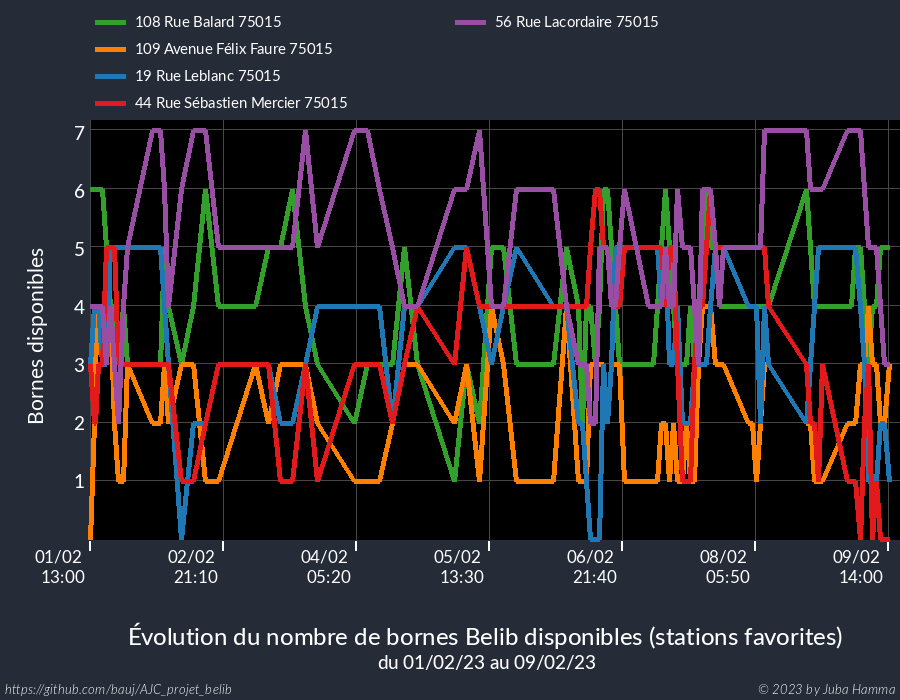
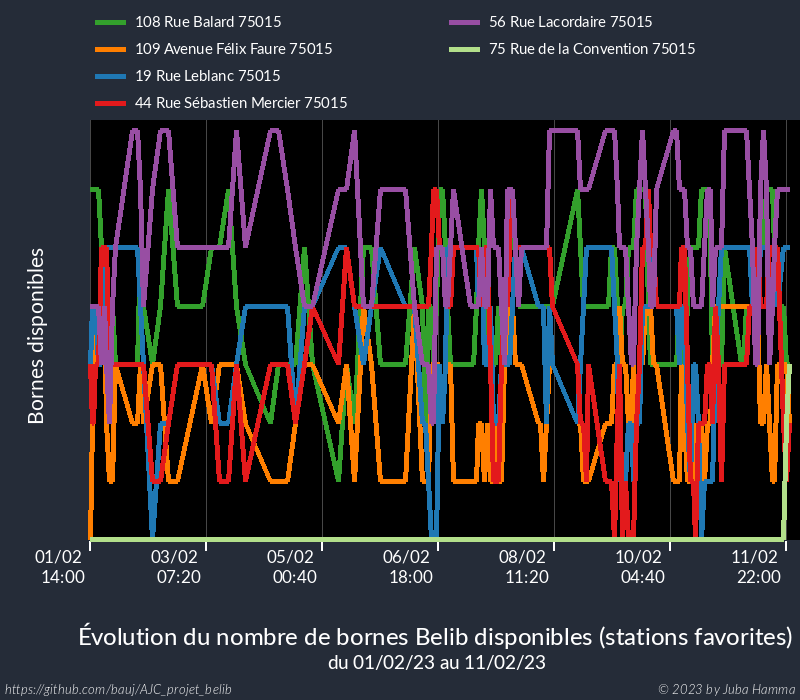
Prise en compte d'une nouvelle station fav

diff --git a/plotting_data/src/libs/getter.h b/plotting_data/src/libs/getter.h
@@ -149,6 +149,8 @@ void Print_tableau_fav(int nb_station, int nb_date, int nb_statuts, int tab[nb_s
  */
 void Get_statut_station(int nb_stations, int nb_rows, int nb_statuts,int vect_statut[nb_rows],int tableau_statuts_fav[nb_stations][nb_rows][nb_statuts],int station, int statut);
 
+int Get_nb_rows_par_station_unique(sqlite3 *db_belib, char* table, \
+            int station, char **tableau_adresses_fav);
 
 /* --------------------------------------------------------------------------- */
 // Definition des fonctions
@@ -326,11 +328,16 @@ void Get_avg_dispo_station(sqlite3 *db_belib,\
             exit(EXIT_FAILURE);
         }
 
+        // Initialisation du tableau : utile lorsque de nouvelles stations pop
+        for (int h = 0; h < nb_rows_hours; h++) {
+            tableau_avg_dispo_station[station][h] = 0.;
+        }
+
         // Application du statement : on recupere les statuts
         for (int h = 0; h < nb_rows_hours; h++) {
             int step = sqlite3_step(stmt_station);
-            if (step == SQLITE_ROW) 
-            {
+            if (step == SQLITE_ROW) {
+                // printf("SQL Avg dispo Station %d à %02d:00 : %.1f \n", station,+1 h, (float)sqlite3_column_double(stmt_station, 0));
                 tableau_avg_dispo_station[station][h] = \
                         (float)sqlite3_column_double(stmt_station, 0);
             }
@@ -352,6 +359,11 @@ void Get_statuts_station(sqlite3 *db_belib, char *table,\
     
     for (int station = 0; station < nb_stations_fav; station++)
     {
+
+        int nb_date_station = \
+                        Get_nb_rows_par_station_unique(db_belib, table, \
+                            station, tableau_adresses_fav);
+
         // Declaration statement
         sqlite3_stmt *stmt_station;
 
@@ -368,17 +380,49 @@ void Get_statuts_station(sqlite3 *db_belib, char *table,\
             exit(EXIT_FAILURE);
         }
 
-        // Application du statement : on recupere les statuts
-        for (int t = 0; t < nb_rows_par_station; t++) {
-            int step = sqlite3_step(stmt_station);
-            if (step == SQLITE_ROW) 
-            {
+        
+        if (nb_date_station == nb_rows_par_station) {
+            // Initialisation
+            for (int t = 0; t < nb_rows_par_station; t++) {
                 for (int statut = disponible; statut <= inconnu; statut++) {
-                    tableau_statuts_fav[station][t][statut] = \
-                    sqlite3_column_int(stmt_station, statut);
+                        tableau_statuts_fav[station][t][statut] = 0;
                 }
             }
-            // ELIF STOP
+
+            // Application du statement : on recupere les statuts
+            for (int t = 0; t < nb_rows_par_station; t++) {
+                int step = sqlite3_step(stmt_station);
+                if (step == SQLITE_ROW) 
+                {
+                    for (int statut = disponible; statut <= inconnu; statut++) {
+                        tableau_statuts_fav[station][t][statut] = \
+                        sqlite3_column_int(stmt_station, statut);
+                    }
+                }
+            }
+        } else {
+            // Gestion des nouvelles stations qui pop
+            printf("nb recolte       : %d \n", nb_date_station);
+            printf("nb total recolte : %d \n", nb_rows_par_station);
+            // Initialisation a 0 avant le debut de recolte
+            for (int t = 0; t < nb_rows_par_station-nb_date_station; t++) {
+                for (int statut = disponible; statut <= inconnu; statut++) {
+                        tableau_statuts_fav[station][t][statut] = 0;
+                }
+            }
+
+            // On remplit avec ce qui est disponible dans la db
+            for (int t = 0; t < nb_date_station; t++) {
+                int step = sqlite3_step(stmt_station);
+                if (step == SQLITE_ROW) 
+                {
+                    for (int statut = disponible; statut <= inconnu; statut++) {
+                        tableau_statuts_fav[station][nb_rows_par_station-nb_date_station+t][statut] = \
+                        sqlite3_column_int(stmt_station, statut);
+                    }
+                }
+            }
+
         }
 
         // Reset du stmt
@@ -471,6 +515,59 @@ void Get_adresses(sqlite3 *db_belib, char* table,\
     sqlite3_finalize(stmt);
 
 }
+
+
+/* --------------------------------------------------------------------------- */
+int Get_nb_rows_par_station_unique(sqlite3 *db_belib, char* table, \
+            int station, char **tableau_adresses_fav)
+{
+
+    // Declaration statement
+    sqlite3_stmt *stmt;
+
+    int nb_rows_par_station = 0;
+
+    char query_nb_row_par_station_unique[250] = \
+            "SELECT COUNT(DISTINCT date_recolte) FROM ";
+    
+    strcat(query_nb_row_par_station_unique, table);
+    strcat(query_nb_row_par_station_unique, " WHERE adresse_station = ");  
+
+    int len_query_base = strlen(query_nb_row_par_station_unique);
+    int len_max_adresse = 200;
+    int len_query_station = len_query_base + len_max_adresse;
+
+    char *req = malloc(len_query_station*sizeof(char));
+
+    strcpy(req, query_nb_row_par_station_unique);
+    strcat(req, "\'");
+    strcat(req, tableau_adresses_fav[station]);
+    strcat(req, "\';");
+
+    // Test de la requete
+    if (sqlite3_prepare_v2(db_belib,req,-1, &stmt, NULL))
+    {
+        printf("Erreur SQL unique:\n");
+        printf("%s : %s\n", sqlite3_errstr(sqlite3_extended_errcode(db_belib)),\
+                         sqlite3_errmsg(db_belib));
+        sqlite3_close(db_belib);
+        exit(EXIT_FAILURE);
+    }
+    // Application du statement et fermeture de la db
+    int step = sqlite3_step(stmt);
+
+    if (step == SQLITE_ROW) {
+        nb_rows_par_station = sqlite3_column_int(stmt, 0);
+    }
+
+    // Reset du stmt
+    sqlite3_finalize(stmt);
+
+    free(req);
+
+    return nb_rows_par_station;
+}
+
 
 /* --------------------------------------------------------------------------- */
 int Get_nb_rows_par_station(sqlite3 *db_belib, char* table)

diff --git a/plotting_data/src/main_stations_fav.c b/plotting_data/src/main_stations_fav.c
@@ -13,9 +13,9 @@
 #include "libs/getter.h"
 #include "libs/plotter.h"
 
-// #define AJC
+#define AJC
 // #define QEMU
-#define LENOVO
+// #define LENOVO
 
 /* =========================================================================== */
 int main(int argc, char* argv[]) 
@@ -109,6 +109,9 @@ int main(int argc, char* argv[])
     // for (int station=0; station < nb_stations_fav; station++)
     //     for (int h=0; h < nb_rows_hours; h++)
     //         printf("Avg dispo Station %d à %02d:00 : %.1f \n",station, h, tableau_avg_dispo_station[station][h]);
+
+    for (int h=0; h < nb_rows_hours; h++)
+        printf("Avg dispo Station %d à %02d:00 : %.1f \n",6, h, tableau_avg_dispo_station[5][h]);
 
     // Fermeture db
     sqlite3_close(db_belib);
@@ -209,9 +212,10 @@ int main(int argc, char* argv[])
     /* Make Y ticks and grid line*/
     char wTicks = 'n';
     char *path_f_med = fonts_fig[1];
-    Change_font(&fig1, ticklabel_f, path_f_med);
-    Change_fontsize(&fig1, ticklabel_f, 14);    
-    Make_yticks_ygrid(&fig1, wTicks);
+    printf("%s\n", path_f_med);
+    // Change_font(&fig1, ticklabel_f, path_f_med);
+    // Change_fontsize(&fig1, ticklabel_f, 14);    
+    // Make_yticks_ygrid(&fig1, wTicks);
 
     /* Make legend */
     int decalx_leg = 0, decaly_leg = 0, ecart = 8;
@@ -328,7 +332,7 @@ int main(int argc, char* argv[])
     // Print_debug_date(&last_date_recolte, 'y');
 
     char subtitle2[70];
-    #ifdef qemu
+    #ifdef QEMU
         int hour_hack = last_date_recolte.tm.tm_hour+1;
     #else
         int hour_hack = last_date_recolte.tm.tm_hour;
@@ -409,7 +413,7 @@ int main(int argc, char* argv[])
     Make_xticks_xgrid_time_avgH(&fig3, nb_rows_hours,tableau_avg_hours);
 
     /* Make Y ticks and grid line*/
-    wTicks = 'n'; 
+    wTicks = 'y'; 
     Make_fyticks_ygrid(&fig3, wTicks);
 
     /* Plot lines */

diff --git a/plotting_data/src/libs/plotter.h b/plotting_data/src/libs/plotter.h
@@ -1864,13 +1864,19 @@ void Make_fyticks_ygrid(Figure *fig, char wTicks)
                             &style_tick);
         }
 
+        // Fabrication des tick labels
+        sprintf(tickVal, "%d", i*itv);
+
         int posX_ticklab = fig->orig[0]-(long_tick+2) \
                             - strlen(tickVal) * fig->fonts[ticklabel_f].size;
         int posY_ticklab = fig->orig[1] - i*itv_pixels \
                             + fig->fonts[ticklabel_f].size / 2;
 
-        // Fabrication des tick labels
-        sprintf(tickVal, "%d", i*itv);
+        // printf("Tick %d : %s\n", i, tickVal);
+        // // printf("Tick posX : %d \n", posX_ticklab);
+        // // printf("Tick posY : %d \n", posY_ticklab);
+        // printf("%s \n",fig->fonts[ticklabel_f].path);
+        // printf("%d \n",fig->fonts[ticklabel_f].size);
 
         gdImageStringFT(fig->img, NULL,\
                             GetCouleur(fig->img,\

diff --git a/recuperation_data/recuperation_data_belib.py b/recuperation_data/recuperation_data_belib.py
@@ -290,13 +290,13 @@ def make_mapbox(table, list_stations, http, pos_lat, pos_lon, dist):
 
     ## Construction des pins sur la carte
     ## 1er pin : position entree
-    pins = f"pin-s+111({pos_lon:.4f},{pos_lat:.4f})"
+    pins = f"pin-l-home+111({pos_lon:.4f},{pos_lat:.4f})"
     # overlay = f"pin-s+000({lon_center},{lat_center}),pin-s+f74e4e({lon_max},{lat_center})/"
 
     for idx,st in enumerate(list_stations):
         lat_station = list_stations[idx]["lon"]
         lon_station = list_stations[idx]["lat"]
-        pins += f",pin-s+{colors[idx]}({lon_station:.4f},{lat_station:.4f})"
+        pins += f",pin-l-charging-station+{colors[idx]}({lon_station:.4f},{lat_station:.4f})"
 
     with open("../.mapbox_token") as ftoken:
         read_mapbox_token = ftoken.read().split('\n')[0]

diff --git a/plotting_data/src/main.c b/plotting_data/src/main.c
@@ -13,9 +13,9 @@
 #include "libs/getter.h"
 #include "libs/plotter.h"
 
-// #define AJC
+#define AJC
 // #define QEMU
-#define LENOVO
+// #define LENOVO
 
 /* =========================================================================== */
 int main(int argc, char* argv[]) 
@@ -325,7 +325,7 @@ int main(int argc, char* argv[])
     // Print_debug_date(&last_date_recolte, 'y');
 
     char subtitle2[70];
-    #ifdef qemu
+    #ifdef QEMU
         int hour_hack = last_date_recolte.tm.tm_hour+1;
     #else
         int hour_hack = last_date_recolte.tm.tm_hour;

diff --git a/plotting_data/src/main_stations_live.c b/plotting_data/src/main_stations_live.c
@@ -13,9 +13,9 @@
 #include "libs/getter.h"
 #include "libs/plotter.h"
 
-// #define AJC
+#define AJC
 // #define QEMU
-#define LENOVO
+// #define LENOVO
 
 /* =========================================================================== */
 int main(int argc, char* argv[]) 
@@ -204,7 +204,7 @@ int main(int argc, char* argv[])
     // Print_debug_date(&last_date_recolte, 'y');
 
     char subtitle2[70];
-    #ifdef qemu
+    #ifdef QEMU
         int hour_hack = last_date_recolte.tm.tm_hour+1;
     #else
         int hour_hack = last_date_recolte.tm.tm_hour;

diff --git a/plotting_data/src/libs/consts.h b/plotting_data/src/libs/consts.h
@@ -9,6 +9,11 @@
 #ifndef consts_H
 #define consts_H
 
+
+#define AJC
+// #define QEMU
+// #define LENOVO
+
 int white[3]        = {255, 255, 255};
 int black[3]        = {  0,   0,   0};
 int gris_grid[3]    = { 71,  71,  71};
